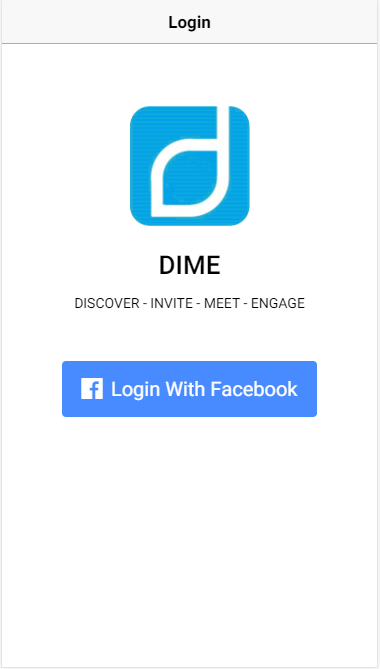
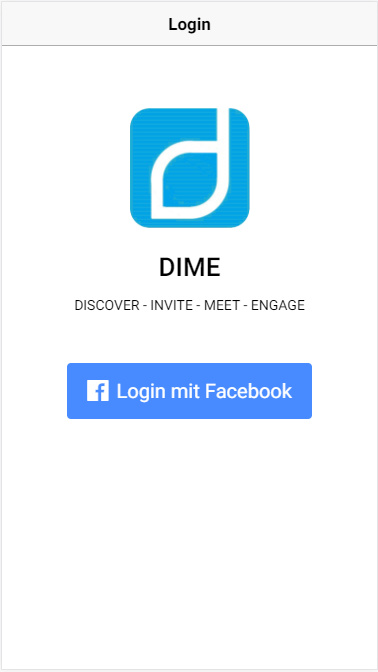
update presentation

diff --git a/presentation/index.html b/presentation/index.html
@@ -169,7 +169,7 @@
 						<h2>Ergebnis</h2>
 					</div>
 					<div class="my-content">
-
+						<p>Nachfolgend sollen die Resultate der Entwicklung aufgezeigt werden:</p>
 					</div>
 				</section>
 				<section>
@@ -179,8 +179,128 @@
 					<div class="my-content">
 						<div class="my-table-style">
 							<div class="left-container">
+								<img src="images/login.png">
 							</div>
 							<div class="right-container">
+								<p>Bevor die App verwendet werden kann muss sich der Anwender zunächst einloggen. Hierfür wurde ein Facebook-Login implementiert.
+									Dies bietet den Vorteil, dass Benutzerdaten über das Facebook-Profil bereitgestellt werden und so ein gewisser Grad
+									an Seriösität garantiert werden kann. Die technische Umsetzung erfolgt dabei mit dem bereits vorgestellten Facebook-Plugin.
+								</p>
+							</div>
+						</div>
+					</div>
+				</section>
+				<section>
+					<div class="my-headline">
+						<h2>Aktivität erstellen</h2>
+					</div>
+					<div class="my-content">
+						<div class="my-table-style">
+							<div class="left-container">
+								<img src="images/create.png">
+							</div>
+							<div class="right-container">
+								<p>Die Idee der Anwendung ist darauf ausgerichtet, dass Anwender Aktivitäten erstellen und weitere Anwender daran teilnehmen
+									können. Hierfür muss der Ersteller zunächst die Kategorie für die Aktivität bestimmten, den Ort auswählen (überfolgt
+									mit Hilfe von Google Maps), die Teilnehmeranzahl festlegen, das Datum und die Dauer bestimmen sowie zusätzliche
+									Informationen angeben. Andere Anwender erhalten anschließend eine Push-Benachrichtung, sollten sie sich für die
+									ausgewählte Kategorie interessieren und sich in der entsprechenden Entfernung zur Aktivität befinden. Bei der Erstellung
+									wird beim Ersteller zusätzlich im Kalender des Betriebssystems ein Termin für die Aktivität erstellt.
+								</p>
+							</div>
+						</div>
+					</div>
+				</section>
+				<section>
+					<div class="my-headline">
+						<h2>Aktivitäten</h2>
+					</div>
+					<div class="my-content">
+						<div class="my-table-style">
+							<div class="left-container">
+								<img src="images/aktivitaeten.png">
+							</div>
+							<div class="right-container">
+								<p>Startseite der Anwendung ist die Übersicht über die bereits erstellten Aktivitäten. Hier wird grundsätzlich zwischen
+									erstellten Aktivitäten von Freunden und anderer Personen unterschieden. Diese Aktivitäten können über eine Reichweite
+									gefiltert und somit die Anzeige aktualisiert werden. Wird eine Aktivität ausgewählt so kann hier entsprechend teilgenommen
+									werden. Diese Funktione wird im Folgenden noch im Detail vorgestellt.
+								</p>
+							</div>
+						</div>
+					</div>
+				</section>
+				<section>
+					<div class="my-headline">
+						<h2>Meine Aktivitäten</h2>
+					</div>
+					<div class="my-content">
+						<div class="my-table-style">
+							<div class="left-container">
+								<img src="images/meine.png">
+							</div>
+							<div class="right-container">
+								<p>Damit der Anwender einen Überblick über seine eigenen Aktivitäten erhält und zusätzliche über die Aktivitäten an
+									denen er teilnimmt bzw. teilgenommen hat wurde ein Übersichts-Screen für die eigenen Aktivitäten entwickelt. Dieser
+									ist, wie bereits angedeutet, in "Eigene", "Bevorstehende" und "Vergangene" Aktivitäten unterteilt. Hier besteht
+									für den Anwender auch die Möglichkeit seine eigenen Aktivitäten wieder zu löschen.
+								</p>
+							</div>
+						</div>
+					</div>
+				</section>
+				<section>
+					<div class="my-headline">
+						<h2>Aktivitäten Details</h2>
+					</div>
+					<div class="my-content">
+						<div class="my-table-style">
+							<div class="left-container">
+								<img src="images/profil.png">
+							</div>
+							<div class="right-container">
+								<p>Bevor die App verwendet werden kann muss sich der Anwender zunächst einloggen. Hierfür wurde ein Facebook-Login implementiert.
+									Dies bietet den Vorteil, dass Benutzerdaten über das Facebook-Profil bereitgestellt werden und so ein gewisser Grad
+									an Seriösität garantiert werden kann. Die technische Umsetzung erfolgt dabei mit dem bereits vorgestellten Facebook-Plugin.
+								</p>
+							</div>
+						</div>
+					</div>
+				</section>
+				<section>
+					<div class="my-headline">
+						<h2>Kategorien</h2>
+					</div>
+					<div class="my-content">
+						<div class="my-table-style">
+							<div class="left-container">
+								<img src="images/kategorien.png">
+							</div>
+							<div class="right-container">
+								<p>Mit Hilfe der Kategorien soll dem Anwender ermöglicht werden, dass er auswählen kann für welche Kategorien er sich
+									interessiert und für welche nicht. Somit bekommt der Anwender auch nur über die ausgewählten Kategorien eine Benachrichtigung
+									(Push-Benachrichtung und Geofence-Areas) über neue Aktivitäten. Ändert der Anwender seine Kategorien-Auswahl so werden die
+									Benachrichtigungseinstellungen entsprechend aktualisiert.
+								</p>
+							</div>
+						</div>
+					</div>
+				</section>
+				<section>
+					<div class="my-headline">
+						<h2>Profil</h2>
+					</div>
+					<div class="my-content">
+						<div class="my-table-style">
+							<div class="left-container">
+								<img src="images/profil.png">
+							</div>
+							<div class="right-container">
+								<p>Damit der Anwender sich vorab einer erstellten Aktivität über den Organisator informieren kann, wurde ein Profil-Screen
+									entwickelt, welcher auf das Facebook-Profil des Organisator verlinkt. Zusätzlich ist es dem Anwender möglich im
+									Anschluss an eine Aktivität den Organisator und die anderen Teilnehmer zu bewerten. Somit ergibt sich ein Bewertungssystem
+									für einzelne Anwender. Dies soll ebenfalls zur Seriösität beitragen.
+								</p>
 							</div>
 						</div>
 					</div>

diff --git a/presentation/css/myStyle.css b/presentation/css/myStyle.css
@@ -36,3 +36,22 @@
     font-size: 18px !important;
     color: #cccccc;
 }
+
+.my-table-style{
+    width: 800px;
+    overflow: hidden;
+}
+
+.left-container{
+    width: 300px;
+    float: left;
+}
+
+.right-container{
+    width: 400px;
+    float: right;
+    overflow: hidden;
+    font-size: 18px !important;
+    text-align: left;
+    margin-left: 50px !important;
+}
